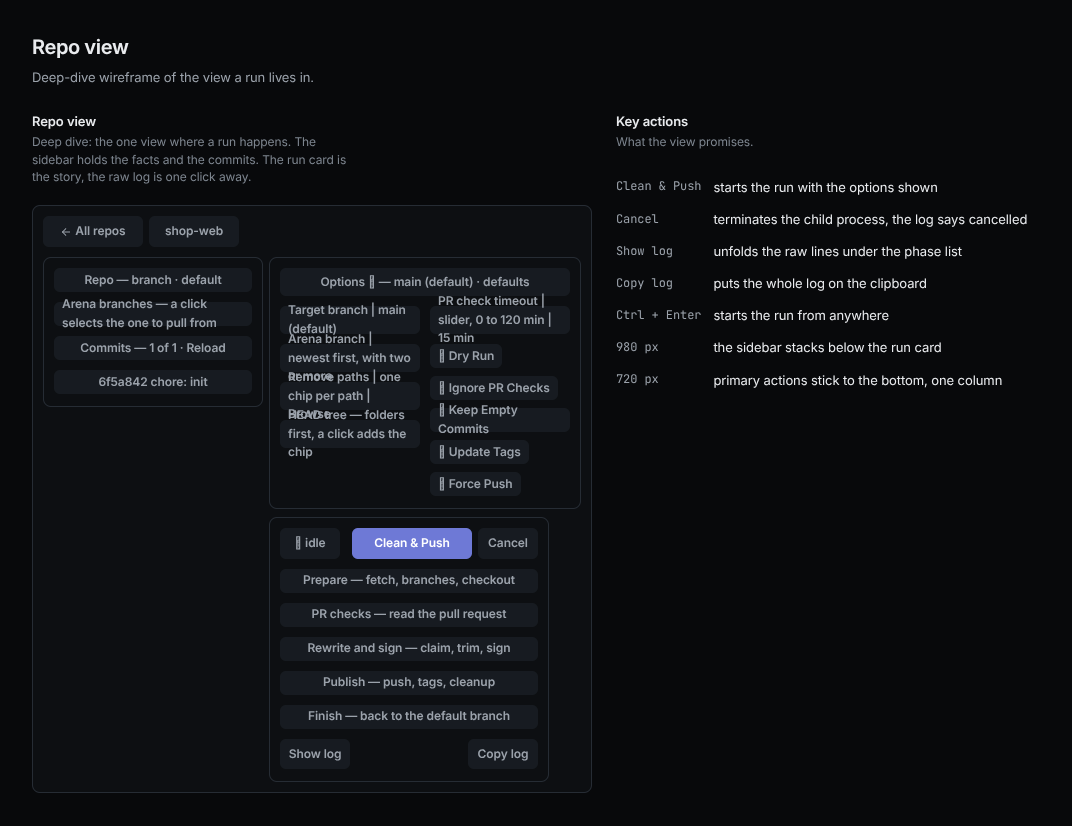
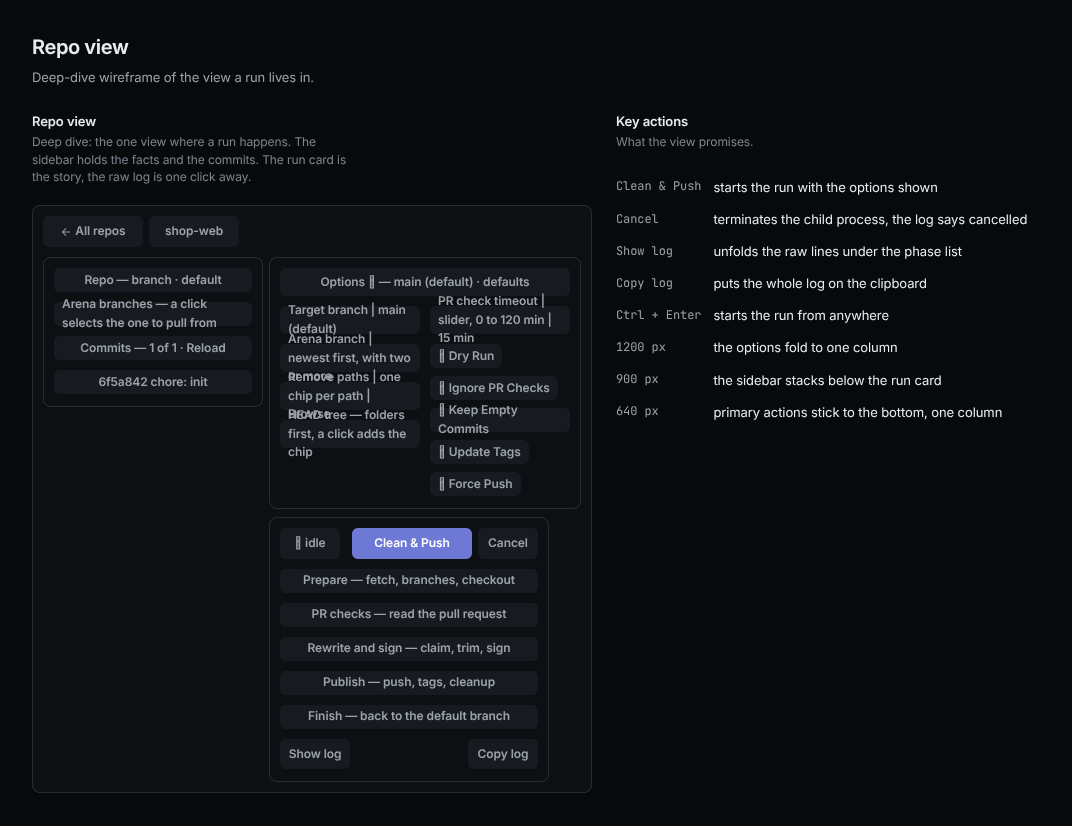
feat(ui): the page breaks at 1200, 900, and 640 px

diff --git a/ui/static/index.html b/ui/static/index.html
@@ -549,17 +549,20 @@
   }
   .toast.show { opacity: 1; transform: translateX(-50%) translateY(0); }
 
-  @media (max-width: 980px) {
+  /* Three named widths, one change each: 1200 folds the options, 900 stacks the page, 640 is the phone. */
+  @media (max-width: 1200px) {
     :root { --pad: 16px; }
+    .options { grid-template-columns: 1fr; grid-auto-flow: row; }
+    #opt-branch, #opt-arena, #opt-paths, #opt-timeout, #checks { grid-column: auto; }
+  }
+  @media (max-width: 900px) {
     /* One column: the run first, then the sidebar with the facts and the commits. */
     .detail { grid-template-columns: 1fr; grid-template-rows: auto auto; align-content: start; }
     .sidebar { order: 2; position: static; height: auto; overflow: visible; border-right: 0; border-top: 1px solid var(--line); }
     .side-commits .commits { overflow: visible; min-height: 0; }  /* one scroll: the page */
-    .options { grid-template-columns: 1fr; grid-auto-flow: row; }
-    #opt-branch, #opt-arena, #opt-paths, #opt-timeout, #checks { grid-column: auto; }
     .grid { grid-template-columns: 1fr; }
   }
-  @media (max-width: 720px) {
+  @media (max-width: 640px) {
     :root { --pad: 14px; }
     /* one scale on a phone: 15 body, 13 controls, 12 metadata. Before this the
        page mixed 11.5, 12, 12.5, 13, and 14 in the same view */

diff --git a/tests/e2e/test_breakpoints.py b/tests/e2e/test_breakpoints.py
@@ -1,0 +1,63 @@
+"""Three named widths, one change each: 1200 folds the options, 900 stacks the page, 640 is the phone."""
+
+from __future__ import annotations
+
+import re
+from typing import Any
+
+import pytest
+
+from scripts.walk import Demo, Walker
+
+from ..conftest import ROOT
+
+NAMED = {1200, 900, 640}
+PAGE = ROOT / "ui" / "static" / "index.html"
+PROBE = """() => {
+  const cols = (s) => getComputedStyle(document.querySelector(s)).gridTemplateColumns.split(' ').length;
+  return {
+    optionColumns: cols('#options'),
+    detailColumns: cols('.detail'),
+    pad: getComputedStyle(document.documentElement).getPropertyValue('--pad').trim(),
+    body: getComputedStyle(document.body).fontSize,
+    browse: document.querySelector('#browse').getBoundingClientRect().height,
+  };
+}"""
+
+
+def test_only_the_named_widths_carry_rules() -> None:
+  widths = {
+    int(w) for w in re.findall(r"@media \(max-width: (\d+)px\)", PAGE.read_text())
+  }
+  assert widths == NAMED
+
+
+def probe(browser: Any, demo: Demo, width: int) -> dict[str, Any]:
+  context = browser.new_context(viewport={"width": width, "height": 900})
+  try:
+    walker = Walker(context, demo.url)
+    walker.goto(400)
+    walker.click(".repo-card", 800)
+    return walker.page.evaluate(PROBE)
+  finally:
+    context.close()
+
+
+@pytest.mark.parametrize("width", sorted(NAMED))
+def test_each_named_width_carries_one_change(
+  browser: Any, demo: Demo, width: int
+) -> None:
+  above = probe(browser, demo, width + 1)
+  at = probe(browser, demo, width)
+  if width == 1200:
+    assert (above["optionColumns"], at["optionColumns"]) == (2, 1)
+    assert (above["pad"], at["pad"]) == ("20px", "16px")
+    assert above["detailColumns"] == at["detailColumns"] == 2
+  if width == 900:
+    assert (above["detailColumns"], at["detailColumns"]) == (2, 1)
+    assert above["optionColumns"] == at["optionColumns"] == 1
+    assert above["body"] == at["body"]
+  if width == 640:
+    assert (above["body"], at["body"]) == ("14px", "15px")
+    assert above["browse"] < 44 <= at["browse"]
+    assert above["detailColumns"] == at["detailColumns"] == 1

diff --git a/scripts/design_boards.py b/scripts/design_boards.py
@@ -66,7 +66,7 @@ DESKTOP_RAMP = [
   ("--fs-4", "16 px", "view title"),
   ("--fs-5", "20 px", "page title"),
 ]
-PHONE_RAMP = "12, 13, 14, 15 body, 16 fields, 19 title at 720 px and below"
+PHONE_RAMP = "12, 13, 14, 15 body, 16 fields, 19 title at 640 px and below"
 SPACING = [2, 4, 6, 8, 10, 12, 16, 20, 24, 32]
 RADII = [
   ("12 px", "cards"),
@@ -384,8 +384,9 @@ def wireframe_board(_: dict[str, bytes]) -> str:
     '<tr><td class="mono">Show log</td><td>unfolds the raw lines under the phase list</td></tr>'
     '<tr><td class="mono">Copy log</td><td>puts the whole log on the clipboard</td></tr>'
     '<tr><td class="mono">Ctrl + Enter</td><td>starts the run from anywhere</td></tr>'
-    '<tr><td class="mono">980 px</td><td>the sidebar stacks below the run card</td></tr>'
-    '<tr><td class="mono">720 px</td><td>primary actions stick to the bottom, one column</td></tr></table>'
+    '<tr><td class="mono">1200 px</td><td>the options fold to one column</td></tr>'
+    '<tr><td class="mono">900 px</td><td>the sidebar stacks below the run card</td></tr>'
+    '<tr><td class="mono">640 px</td><td>primary actions stick to the bottom, one column</td></tr></table>'
   )
   body = (
     '<div class="wf"><div class="row">'

diff --git a/docs/design.md b/docs/design.md
@@ -44,7 +44,7 @@ The one design record for the arena-cleanup web app. The sections follow the nem
 
 - Inter (variable) for text, JetBrains Mono for paths, hashes, and commands. Both ship as woff2 under `ui/static/fonts/`.
 - Desktop ramp: `--fs-1` 12 px for metadata and mono details, `--fs-2` 13 px for controls and labels. `--fs-3` 14 px for body, names, and buttons, `--fs-4` 16 px for a view title, `--fs-5` 20 px for the page title.
-- Phone ramp at 720 px and below: body 12 to 15 px, fields 16 px, and title 19 px. The 16 px fields keep iOS from zooming.
+- Phone ramp at 640 px and below: body 12 to 15 px, fields 16 px, and title 19 px. The 16 px fields keep iOS from zooming.
 - Weights: 400, 520 to 640 for labels and names, 600 for headings.
 
 ### Icons
@@ -57,8 +57,8 @@ The one design record for the arena-cleanup web app. The sections follow the nem
 ### Layout
 
 - Spacing scale: 2, 4, 6, 8, 10, 12, 16, 20, 24, and 32 px, with 1 px for borders.
-- Page padding `--pad`: 20 px, 16 px at 980 px and below, 14 px at 720 px and below.
-- Breakpoints: the options sit in two columns at every width above 980 px. The left column holds Target branch, Arena branch, and Remove paths. The right column holds PR check timeout and the checkboxes. 980 px keeps one column in that order and stacks the sidebar below the run card. 720 px switches to the phone ramp, 44 px targets, and stacked rows.
+- Page padding `--pad`: 20 px, 16 px at 1200 px and below, 14 px at 640 px and below.
+- Breakpoints, the nuu trio, one change each. 1200 px folds the options to one column and tightens the padding. 900 px stacks the sidebar below the run card and the repo cards into one column. 640 px switches to the phone ramp, 44 px targets, and stacked rows. Above 1200 px the options sit in two columns. Target branch, Arena branch, and Remove paths sit left, PR check timeout and the checkboxes right. No other width carries a rule.
 - Radius `--r` 10 px for cards, 8 px for buttons and fields, 999 px for pills.
 
 ### Theme and motion
@@ -132,13 +132,14 @@ The one design record for the arena-cleanup web app. The sections follow the nem
 - Accepted 2026-10-22: no command switch on the repo page. A local rewrite without a push is a terminal task, so `strip` lives in the CLI alone.
 - Accepted 2026-10-22: the whole options card folds, not the Target branch row alone. The select names the default branch first, keeps the empty value, and lists no `arena/*` branch. The server refuses one too.
 - Accepted 2026-10-22: with two or more arena branches the page selects one, newest tip first, in the options card. The engine gained `--arena NAME` for it and keeps the full flow. The page never passes `-b arena/*`.
-- Accepted 2026-10-22: the sidebar grows to 320 px. The commit list sits below the repo facts and the arena rows. The HEAD block goes. The hash leads each commit row. Below 980 px the sidebar stacks under the run card instead of hiding. The commit list then grows with the page: one scroll per screen.
+- Accepted 2026-10-22: the sidebar grows to 320 px. The commit list sits below the repo facts and the arena rows. The HEAD block goes. The hash leads each commit row. Below 900 px the sidebar stacks under the run card instead of hiding. The commit list then grows with the page: one scroll per screen.
 - Accepted 2026-10-22: a click on a sidebar arena row selects the arena branch the run pulls from. The Arena branch select follows the row and the row follows the select. The marked row never sets the target branch. With one arena branch the row only shows which branch that is.
 - Accepted 2026-10-22: the options card loses its hint texts and the task note above it. Each option is one row. The switches become checkboxes with Title Case labels. Update Tags is the positive form of `--no-tags`. Keep arena branch goes. The reset before every run drops local copies, so a kept branch never reaches the next run. The timeout is a slider with ten stops and a readout.
 - Accepted 2026-10-22: a managed clone holds nothing of its own. The server resets it to origin before every run and drops local `arena/*` copies. The page loses the Reset button, the dirty chip, and On divergence. `--on-divergence` stays a CLI flag.
 - Accepted 2026-10-22: the card and the sidebar show how far each arena branch is ahead of the default branch. The clone's own drift stays out of sight. Nobody commits in the container, and the engine handles that divergence itself.
 - Accepted 2026-10-22: the primary button reads Clean & Push. The phase list keeps Publish for the push, tags, and cleanup step.
 - Accepted 2026-10-22: a tree selector for Remove paths. It reads `git ls-tree` of HEAD in the clone, so it works for path repos and never calls GitHub. File contents stay out. A path only old commits carried stays a typed chip.
+- Accepted 2026-10-23: the breakpoints move to the nuu widths 1200, 900, and 640 px. 1200 folds the options, 900 stacks the page, 640 is the phone. Between 981 and 1200 px the options lose their two columns, and nothing clips.
 - Accepted 2026-10-23: the primary button takes `accent-deep`, 5.3:1 under white, and `accent-deep-hi` on hover. The `accent` token stays for fills and marks.
 - Accepted 2026-10-23: the options card puts the selects and Remove paths left, PR check timeout and the checkboxes right. One grid with column-locked rows: PR check timeout shares the Target branch row, the checks share the next row.
 - Accepted 2026-10-23: the page draws the checkboxes. `appearance: none` drops the browser box, so the boxes match the select and the fields in every browser.

diff --git a/CHANGELOG.md b/CHANGELOG.md
@@ -29,15 +29,15 @@ and the project uses [Semantic Versioning](https://semver.org/spec/v2.0.0.html).
 - The repo card meta drops the tag count. It shows the branch and the tree state.
 - Arena rows on the card and in the sidebar show `↑ N` with a tooltip. N counts the commits beyond the default branch.
 - `run -a/--arena NAME` answers the arena branch menu without a prompt. The page shows that select, newest tip first, when a repo has two or more arena branches. The card button uses the newest.
-- The repo sidebar is 320 px wide. It lists the commits below the repo facts and the arena rows. The HEAD block is gone. Below 980 px it stacks under the run card, and the commit list grows with the page.
+- The repo sidebar is 320 px wide. It lists the commits below the repo facts and the arena rows. The HEAD block is gone. Below 900 px it stacks under the run card, and the commit list grows with the page.
 - A shallow history: one Back leaves a sub-view, the next one leaves the page.
 - A click on a sidebar arena row selects the arena branch the run pulls from. The Arena branch select and the row follow each other.
-- The options card: one row per option, no hint texts, no task note. Checkboxes Dry Run, Ignore PR Checks, Keep Empty Commits, Update Tags (on by default), and Force Push replace the switches. Keep arena branch is gone. PR check timeout is a slider with ten stops and a readout. The page draws the checkboxes: a 16 px box, the accent fill, and a Lucide check. Above 980 px the selects and Remove paths sit left, PR check timeout and the checkboxes right.
+- The options card: one row per option, no hint texts, no task note. Checkboxes Dry Run, Ignore PR Checks, Keep Empty Commits, Update Tags (on by default), and Force Push replace the switches. Keep arena branch is gone. PR check timeout is a slider with ten stops and a readout. The page draws the checkboxes: a 16 px box, the accent fill, and a Lucide check. Above 1200 px the selects and Remove paths sit left, PR check timeout and the checkboxes right.
 - A managed clone resets to origin before every run. The server fetches, checks out the default branch, resets hard, and drops local `arena/*` copies. The page has no Reset button, dirty chip, or On divergence control, and `--on-divergence` stays a CLI flag.
 - The app copy says repo and repos.
 - The claim rules come from the global git config keys `arena.claim-email` and `arena.claim-name`. The constants are the fallback. The container seeds the identity only while git config is empty.
 - One Settings page behind the gear icon: Identity, GitHub access, Commit signing, and Claimed commits, then About.
-- The options card keeps two columns above 980 px. Four columns overflowed between 981 and 1179 px.
+- The page has three named breakpoints, 1200, 900, and 640 px. 1200 folds the options to one column, 900 stacks the sidebar, 640 starts the phone ramp.
 - Log rows show the clock of the browser. The engine stamps each line in the server zone.
 - Remove on a card deletes its URL clone from the volume. A path repo is only forgotten.
 - `POST /api/repos/<id>/reset`: fetch, check out the default branch, and reset it hard. Untracked files stay.
